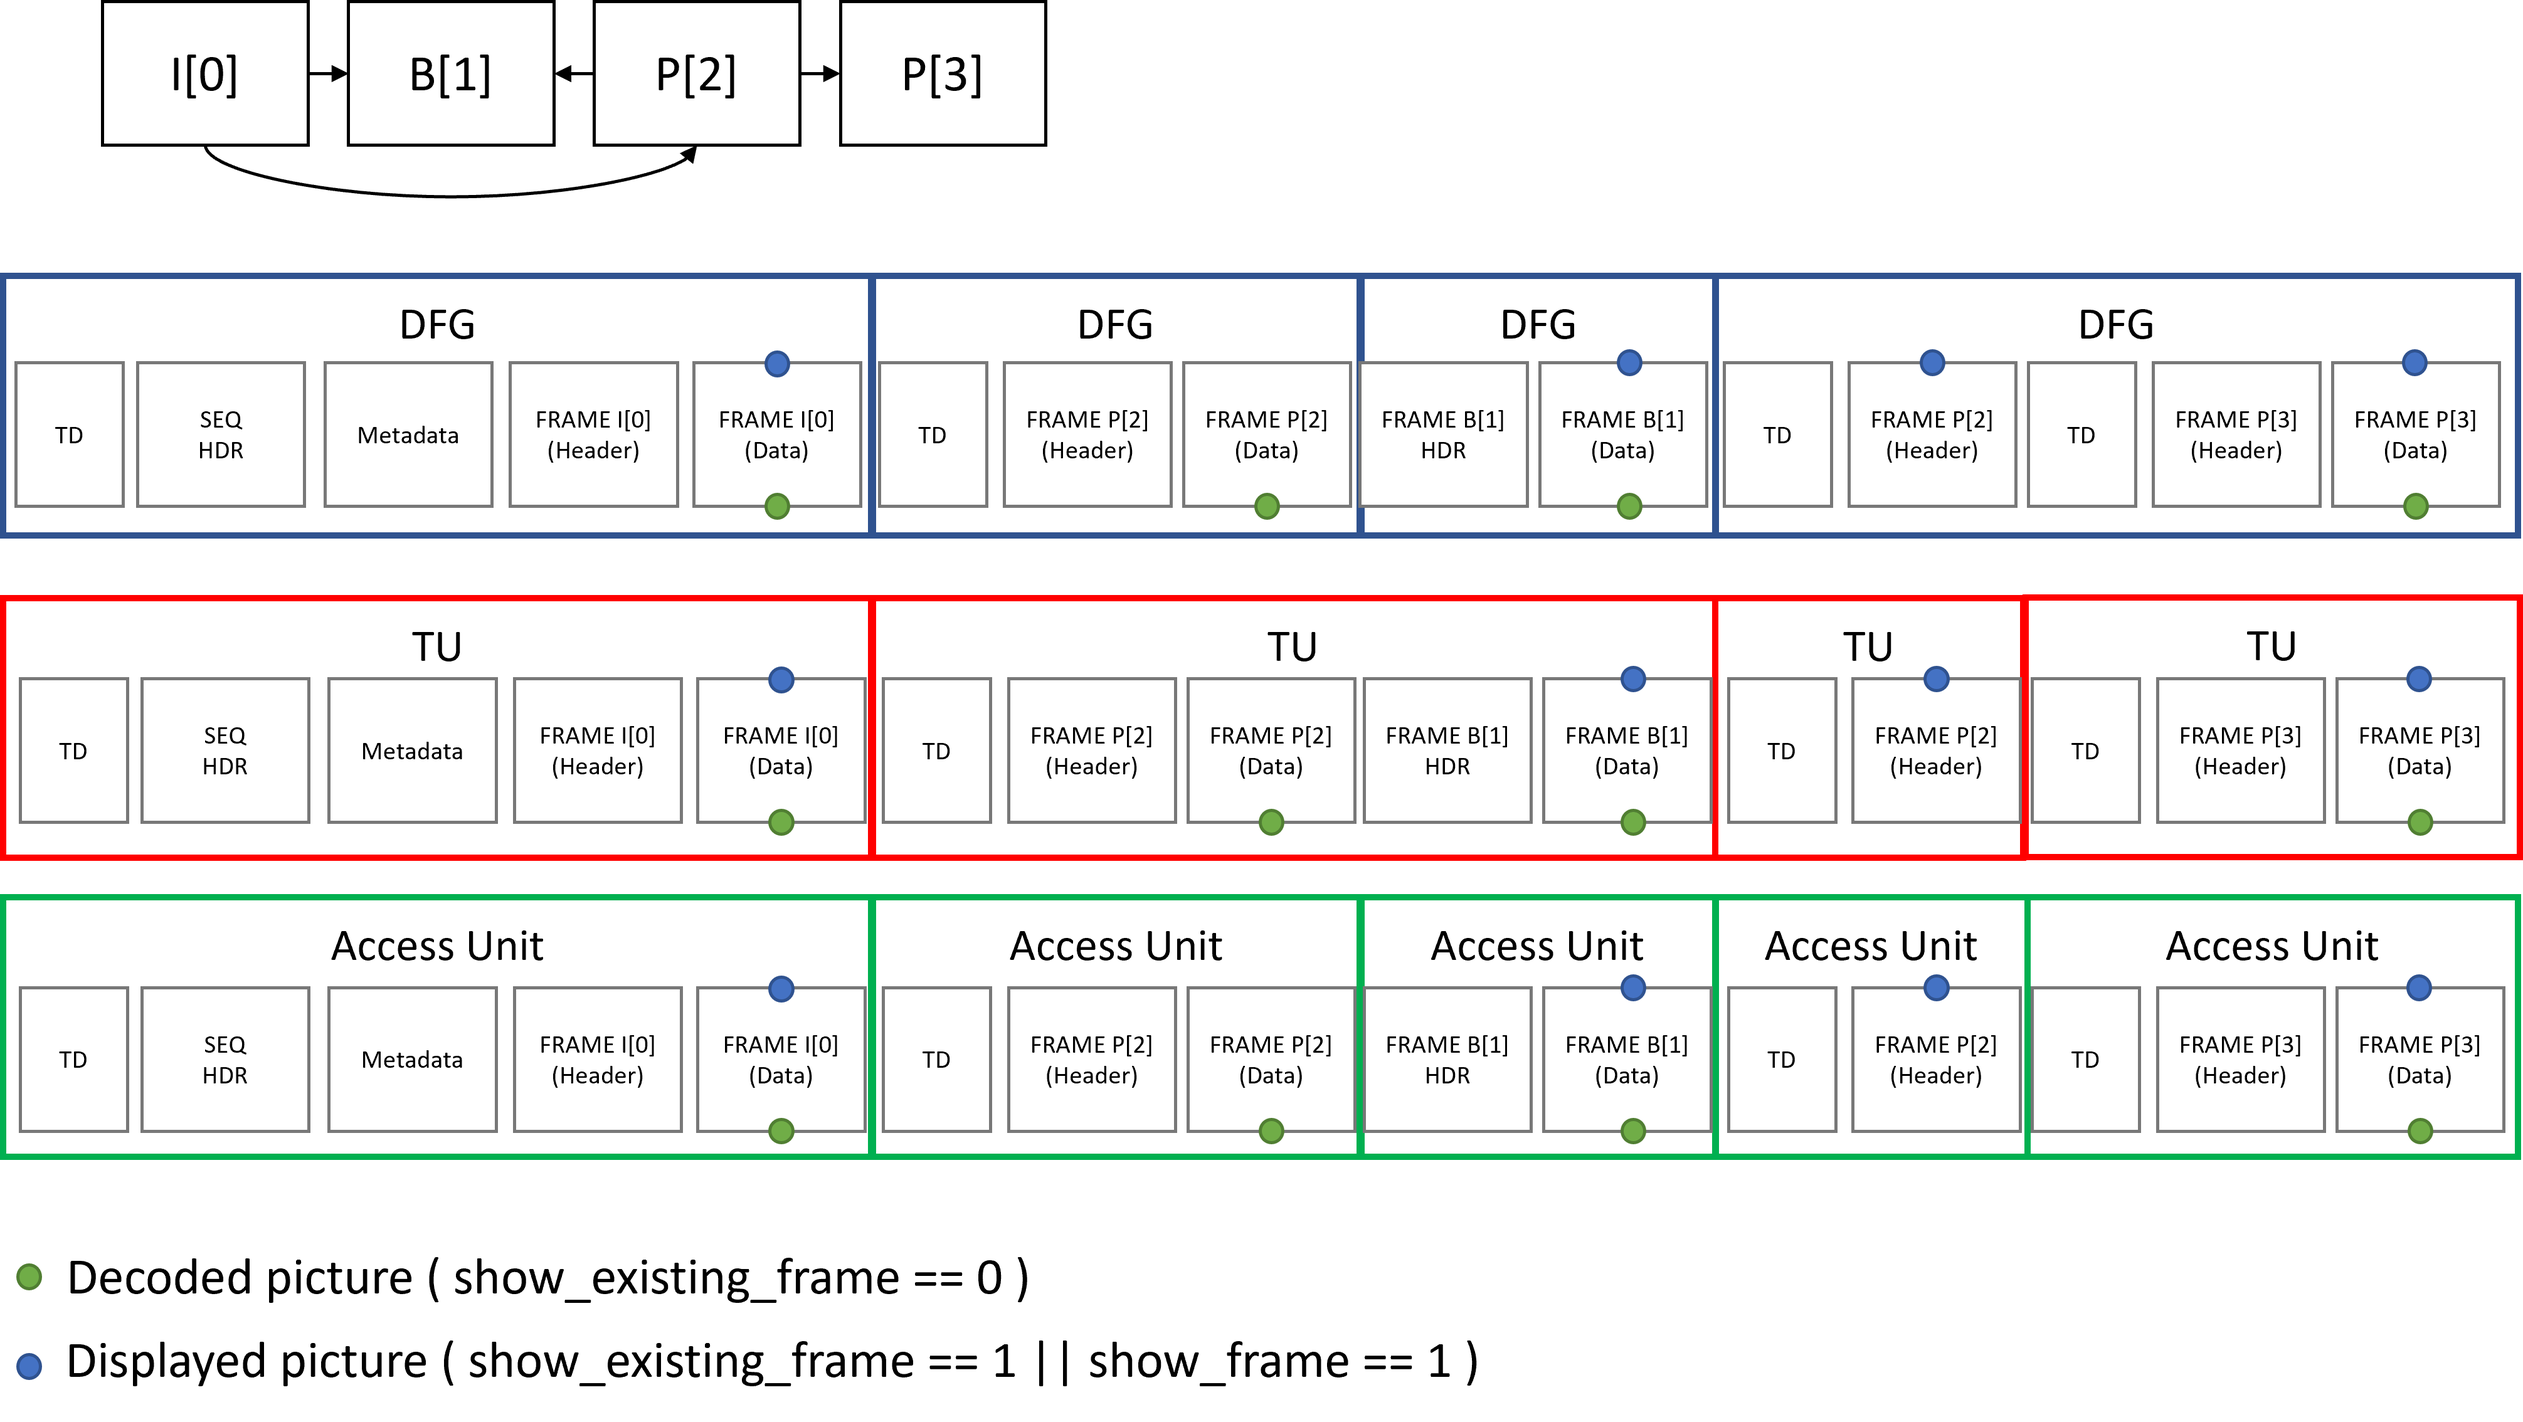
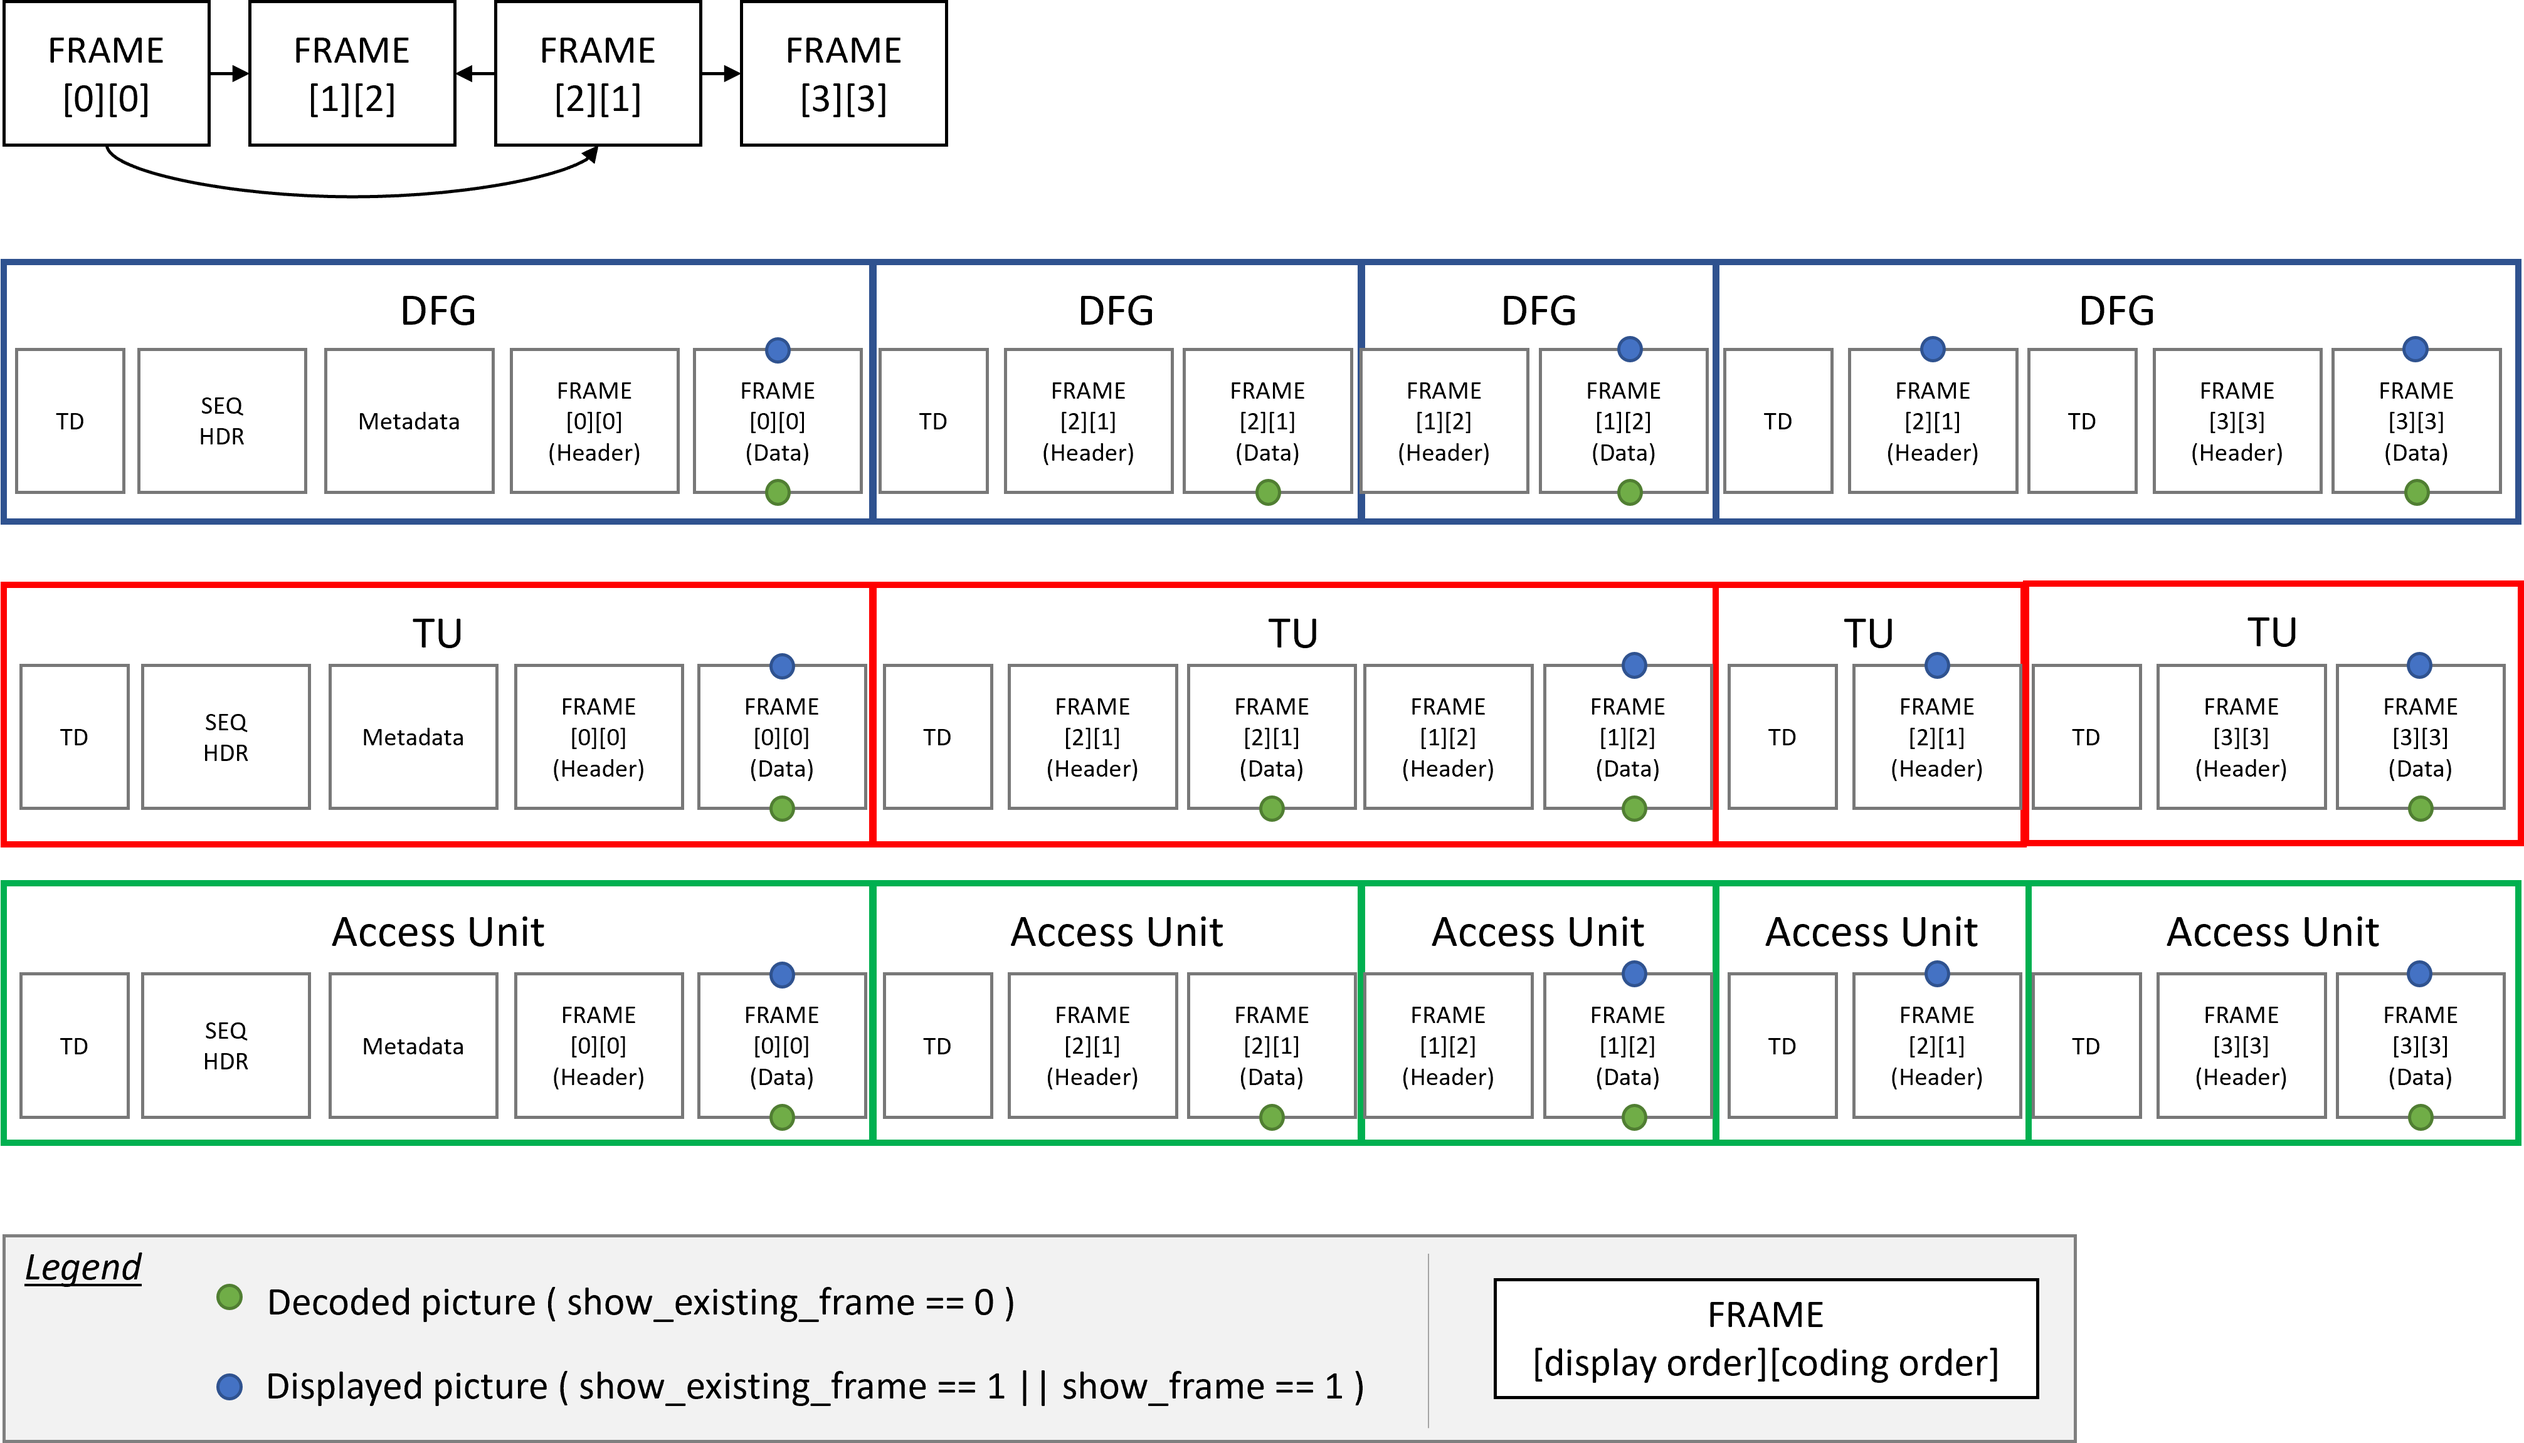
Fix on IPBP concept + updated figure

diff --git a/index.md b/index.md
@@ -148,7 +148,7 @@ Within the **ts_open_bitstream_unit()** payload, any four-byte sequence that sta
 ### 4.3 The AV1 Access Unit 
 
 An AV1 Access Unit consists of all OBUs, including headers, between the end of the last OBU associated
-with the previous frame, and the end of the last OBU associated with the current frame. An illustration is provided in the figure below for an IBPP group of pictures.
+with the previous frame, and the end of the last OBU associated with the current frame. An illustration is provided in the figure below for a group of pictures with frames predicted as follows :
 
 ![Practical example of an AV1 Access Unit split](./AccessUnitSplit_Example.png)
 
